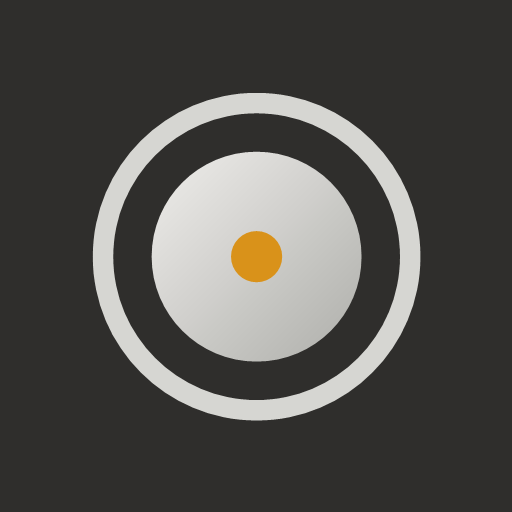
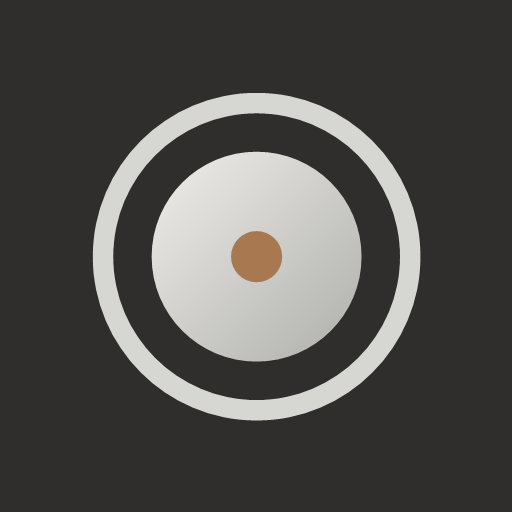
Replace saffron accent with walnut and retitle About

Changed region(s): [[0.4375, 0.4375, 0.5625, 0.5625]]

diff --git a/styles.css b/styles.css
@@ -8,8 +8,9 @@
   --alu-1: #f1f0ed;
   --alu-2: #cfcfcb;
   --alu-3: #a9a9a5;
-  --saffron: #d9921a;
-  --saffron-ink: #91570a;
+  --wood: #9a6b43;
+  --wood-ink: #6f4a2c;
+  --wood-grain: repeating-linear-gradient(92deg, #a87850 0 7px, #8f6039 7px 9px, #a0704a 9px 19px, #85582f 19px 20px);
   --serif: "Cormorant Garamond", "Iowan Old Style", Georgia, serif;
   --sans: "DM Sans", -apple-system, BlinkMacSystemFont, "Segoe UI", sans-serif;
   --safe-t: env(safe-area-inset-top, 0px);
@@ -23,7 +24,7 @@ html, body { height: 100%; margin: 0; overflow: hidden; background: var(--bg); }
 body { color: var(--ink); font: 400 15px/1.5 var(--sans); -webkit-font-smoothing: antialiased; -webkit-text-size-adjust: 100%; }
 button { font: inherit; color: inherit; background: none; border: 0; padding: 0; cursor: pointer; touch-action: manipulation; }
 h1, h2, h3, p { margin: 0; }
-:focus-visible { outline: 2px solid var(--saffron); outline-offset: 2px; }
+:focus-visible { outline: 2px solid var(--wood); outline-offset: 2px; }
 .icon { width: 24px; height: 24px; fill: none; stroke: currentColor; stroke-width: 1.3; stroke-linecap: round; stroke-linejoin: round; }
 
 /* App frame */
@@ -40,7 +41,7 @@ h1, h2, h3, p { margin: 0; }
 .page--top { padding-top: calc(var(--safe-t) + 34px); }
 
 /* Type */
-.eyebrow { font-size: 11px; font-weight: 500; letter-spacing: .16em; text-transform: uppercase; color: var(--saffron-ink); margin-bottom: 8px; }
+.eyebrow { font-size: 11px; font-weight: 500; letter-spacing: .16em; text-transform: uppercase; color: var(--wood-ink); margin-bottom: 8px; }
 h2 { font: 400 36px/1.08 var(--serif); letter-spacing: -.005em; }
 h3 { font: 400 24px/1.15 var(--serif); }
 .lede { color: var(--ink-2); margin-top: 10px; max-width: 32ch; }
@@ -77,8 +78,8 @@ h3 { font: 400 24px/1.15 var(--serif); }
 }
 .card:active { transform: scale(.985); background: #f3efe8; }
 .card__note { color: var(--ink-2); font-size: 13.5px; line-height: 1.4; margin-top: 3px; }
-.card__now { display: inline-flex; align-items: center; gap: 6px; margin-top: 7px; font-size: 11.5px; font-weight: 500; color: var(--saffron-ink); }
-.card__now::before { content: ""; width: 6px; height: 6px; border-radius: 50%; background: var(--saffron); }
+.card__now { display: inline-flex; align-items: center; gap: 6px; margin-top: 7px; font-size: 11.5px; font-weight: 500; color: var(--wood-ink); }
+.card__now::before { content: ""; width: 6px; height: 6px; border-radius: 50%; background: var(--wood); }
 .mini-tray { flex: none; display: grid; grid-template-columns: repeat(3, 15px); gap: 4px; padding: 7px; border: 1px solid var(--line); border-radius: 8px; }
 
 /* Bottom sheet */
@@ -116,7 +117,7 @@ h3 { font: 400 24px/1.15 var(--serif); }
 
 .confirm { padding: 12px 26px 8px; text-align: center; display: flex; flex-direction: column; align-items: center; }
 .confirm .lid { --s: 66px; margin: 8px 0 22px; }
-.confirm .lid::after { content: ""; position: absolute; inset: -8px; border-radius: 50%; border: 1.2px solid var(--saffron); animation: ring .7s var(--ease) both .1s; }
+.confirm .lid::after { content: ""; position: absolute; inset: -8px; border-radius: 50%; border: 1.2px solid var(--wood); animation: ring .7s var(--ease) both .1s; }
 .confirm h3 { font-size: 30px; line-height: 1.1; }
 .confirm p { color: var(--ink-2); margin-top: 10px; max-width: 30ch; }
 .confirm__ref { margin-top: 16px !important; font-size: 12.5px; color: var(--ink-3) !important; }
@@ -127,7 +128,7 @@ h3 { font: 400 24px/1.15 var(--serif); }
 .choice:active { opacity: .6; }
 .choice__name { font: 400 22px/1.15 var(--serif); }
 .choice__sub { font-size: 12.5px; color: var(--ink-2); }
-.choice__tick { flex: none; width: 22px; height: 22px; color: var(--saffron-ink); }
+.choice__tick { flex: none; width: 22px; height: 22px; color: var(--wood-ink); }
 
 /* In My Drawer */
 .tray-wrap { margin: 24px -6px 0; padding: 14px 10px; background: linear-gradient(160deg, #3b3a37, #2c2b29); border-radius: 18px; box-shadow: inset 0 1px 0 rgba(255,255,255,.08); }
@@ -154,10 +155,10 @@ h3 { font: 400 24px/1.15 var(--serif); }
 .fill-row__top { display: flex; justify-content: space-between; gap: 8px; align-items: baseline; }
 .fill-row__name { font: 400 19px/1.15 var(--serif); white-space: nowrap; overflow: hidden; text-overflow: ellipsis; }
 .fill-row__pct { flex: none; font-size: 12.5px; color: var(--ink-2); font-variant-numeric: tabular-nums; }
-.fill-row__pct.is-low { color: var(--saffron-ink); font-weight: 500; }
+.fill-row__pct.is-low { color: var(--wood-ink); font-weight: 500; }
 .bar { height: 3px; margin-top: 7px; background: #e0dbd2; border-radius: 3px; overflow: hidden; }
 .bar i { display: block; height: 100%; background: var(--alu-3); border-radius: 3px; transition: width .6s var(--ease); }
-.bar i.is-low { background: var(--saffron); }
+.bar i.is-low { background: var(--wood-grain); }
 .footnote { font-size: 12.5px; line-height: 1.45; color: var(--ink-3); margin-top: 18px; }
 
 /* Orders */
@@ -176,7 +177,7 @@ h3 { font: 400 24px/1.15 var(--serif); }
 /* About */
 .story { margin-top: 26px; display: grid; gap: 22px; }
 .story article { display: grid; grid-template-columns: 26px 1fr; gap: 0 12px; }
-.story span { font: italic 400 16px/1.5 var(--serif); color: var(--saffron-ink); }
+.story span { font: italic 400 16px/1.5 var(--serif); color: var(--wood-ink); }
 .story h3 { font-size: 23px; }
 .story p { grid-column: 2; color: var(--ink-2); margin-top: 3px; }
 .codes { display: grid; grid-template-columns: 1fr; margin-top: 4px; }
@@ -194,7 +195,7 @@ h3 { font: 400 24px/1.15 var(--serif); }
 .tab { position: relative; display: flex; flex-direction: column; align-items: center; justify-content: center; gap: 2px; color: var(--ink-3); font-size: 10.5px; line-height: 1.2; transition: color .2s, transform .15s var(--ease); }
 .tab:active { transform: scale(.95); }
 .tab.is-active { color: var(--ink); font-weight: 500; }
-.tab::before { content: ""; position: absolute; top: -1px; width: 22px; height: 2px; background: var(--saffron); border-radius: 0 0 2px 2px; opacity: 0; transform: scaleX(.3); transition: opacity .25s, transform .25s var(--ease); }
+.tab::before { content: ""; position: absolute; top: -1px; width: 22px; height: 2px; background: var(--wood); border-radius: 0 0 2px 2px; opacity: 0; transform: scaleX(.3); transition: opacity .25s, transform .25s var(--ease); }
 .tab.is-active::before { opacity: 1; transform: none; }
 
 /* Toast */

diff --git a/app.js b/app.js
@@ -112,7 +112,7 @@
           '<circle class="tray__sel" cx="' + cx + '" cy="' + cy + '" r="' + (r - .5) + '" fill="none" stroke="#fff" stroke-opacity=".55" stroke-width="1"/>' +
           '<circle class="tray__disc" cx="' + cx + '" cy="' + cy + '" r="' + (r - 7) + '" fill="url(#alu)" stroke="#8f8f8b" stroke-width=".6"/>' +
           '<circle cx="' + cx + '" cy="' + cy + '" r="' + (r - 3.5) + '" fill="none" stroke="#6d6c69" stroke-width="2.6"/>' +
-          '<circle class="tray__arc" cx="' + cx + '" cy="' + cy + '" r="' + (r - 3.5) + '" fill="none" stroke="' + (fill < LOW ? "#f0a52a" : "#e8e7e3") +
+          '<circle class="tray__arc" cx="' + cx + '" cy="' + cy + '" r="' + (r - 3.5) + '" fill="none" stroke="' + (fill < LOW ? "#c79a6b" : "#e8e7e3") +
           '" stroke-width="2.6" stroke-linecap="round" pathLength="100" stroke-dasharray="' + fill + ' 100" transform="rotate(-90 ' + cx + " " + cy + ')"/>' +
           '<text class="tray__code" x="' + cx + '" y="' + y0 + '">' + code + "</text>" + txt + "</g>";
       });
@@ -162,7 +162,7 @@
       ["The b3 drawer", "A 3 mm aluminium wire tray sits in the double-V of a bulthaup b3 drawer, holding six lidded containers, three on each side."]
     ];
     $("aboutPage").innerHTML =
-      '<p class="eyebrow">About</p><h2>A contemporary spice storage object</h2>' +
+      '<p class="eyebrow">About</p><h2>Contemporary Spice Storage System</h2>' +
       '<div class="story">' + story.map(function (s, i) {
         return "<article><span>" + (i + 1) + "</span><h3>" + esc(s[0]) + "</h3><p>" + esc(s[1]) + "</p></article>";
       }).join("") + "</div>" +
